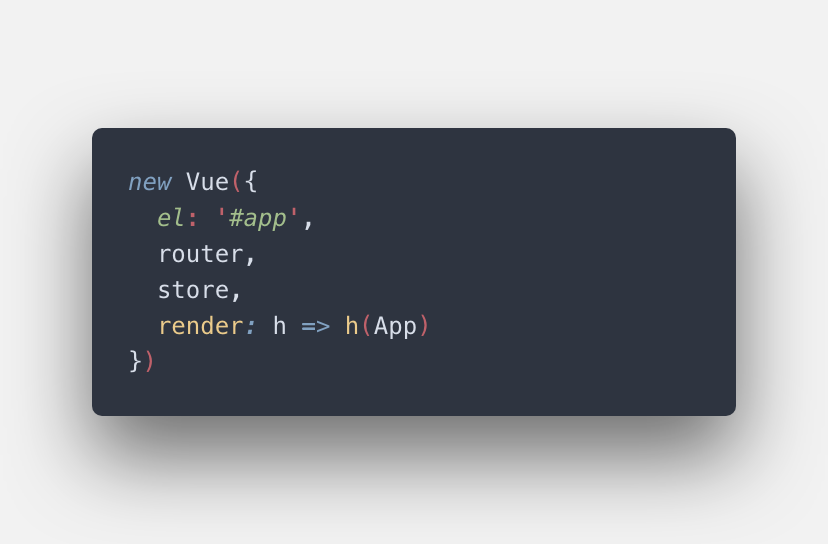
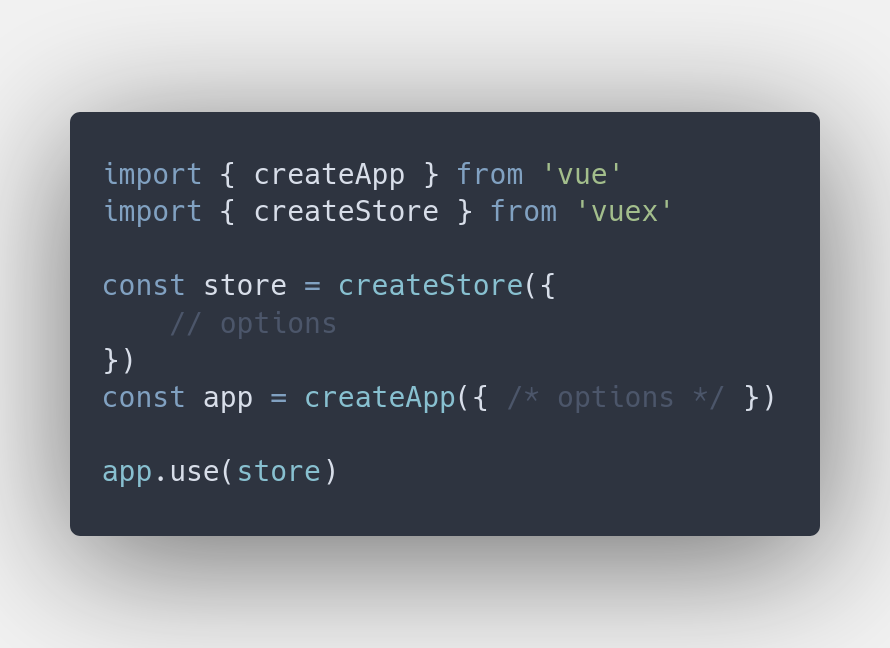
end of slides and images (fragments / teleport / composition)

diff --git a/docs/scripts/slides.js b/docs/scripts/slides.js
@@ -95,6 +95,22 @@ function iteratorSlides() {
   ];
 }
 
+function fragmentsSlides() {
+  return [
+    'fragments/transition_slide.md',
+    'fragments/single_node.md',
+    'fragments/multiple_nodes.md'
+  ]
+}
+
+function teleportSlides() {
+  return [
+    'teleport/transition_slide.md',
+    'teleport/principle.md',
+    'teleport/exercice.md',
+  ]
+}
+
 function communicationComponentSlides() {
   return [
     'communication-components/transition_slide.md',
@@ -160,6 +176,16 @@ function lazyLoadingSlides() {
   ]
 }
 
+function compositionApiSlides() {
+  return [
+    'composition-api/transition_slide.md',
+    'composition-api/problem.md',
+    'composition-api/basics.md',
+    'composition-api/reactivity_api.md',
+    'composition-api/separate_files.md',
+  ]
+}
+
 function formation() {
   return [
     ...schoolSlides(),
@@ -173,6 +199,8 @@ function formation() {
     ...serverCommunicationSlides(),
     ...navigationSlides(),
     ...iteratorSlides(),
+    ...fragmentsSlides(),
+    ...teleportSlides(),
     ...communicationComponentSlides(),
     ...formsSlides(),
     ...filterSlides(),
@@ -180,6 +208,7 @@ function formation() {
     ...directiveSlides(),
     ...stateManagementSlides(),
     ...lazyLoadingSlides(),
+    ...compositionApiSlides(),
   ].map(slidePath => {
     return { path: slidePath };
   });

diff --git a/docs/markdown/vue-instance/instance.md b/docs/markdown/vue-instance/instance.md
@@ -34,11 +34,14 @@ Le constructor peut prendre plusieurs options :
 ##--##
 <br><br><br>
 
-- Différentes méthodes de cycle de vie
+- Chaque instance de composant a un cycle de vie bien défini
     - created
     - mounted
-    - beforeCreated<br><br>
+    - updated
+    - unmounted
 - S'implémente directement dans les options de l'instance de vue
+
+Notes: diagramme https://v3.vuejs.org/guide/instance.html#lifecycle-diagram
 
 ##--##
 <br><br><br>
@@ -55,15 +58,14 @@ Le constructor peut prendre plusieurs options :
 <br><br><br>
 - Exposées dans l'objet data
 - Réactives
-- Propriétés d'instance: 
-    - $el
+- Propriétés d'instance :
     - $data
 
 ##--##
-![](assets/images/school/vue-instance/properties.png)
+![h-400](assets/images/school/vue-instance/properties.png)
 <!-- .element: class="align-image" -->
 
-![](assets/images/school/vue-instance/access_properties.png)
+![h-400](assets/images/school/vue-instance/access_properties.png)
 <!-- .element: class="align-image" -->
 
 ##==##
@@ -107,9 +109,10 @@ __Qu'est ce que c'est ?__
 - Exposées dans l'object "methods"
 - Utilisables dans le template
 - Méthodes d'instances
-    - render (creation v-node + createElement parameter)
-    - $on
+    - render (creation de template en javascript)
     - $emit
+    - $watch
+    - $forceUpdate / $nextTick
 
 ##--##
 <br><br>
@@ -129,9 +132,8 @@ __Qu'est ce que c'est ?__
 ##--##
 <br><br><br><br>
 
-- S'implémente sur l'instance / dans une méthode
+- S'implémente dans la définition du composant ou dans une méthode
 - Opérations Asynchrone
-- Privilégier une computed properties
 
 ##--##
 <br><br>
@@ -147,4 +149,4 @@ __Qu'est ce que c'est ?__
 
 - Une propriété computed est recalculée seulement quand ses dépendances changent<br><br>
 - Une méthode est rappelée à chaque fois qu'un élément change<br><br>
-- Un watcher est privilégié pour des actions plus complexes (asynchrone) => un call à une api
+- Un watcher est privilégié pour des actions plus complexes (effet de bord ou appel asynchrone)

diff --git a/docs/markdown/composition-api/reactivity_api.md b/docs/markdown/composition-api/reactivity_api.md
@@ -1,0 +1,33 @@
+# API de réactivité
+
+Permet de définir le comportement d'objets javascript "à la façon Vue"
+(peut être utilisé de façon indépendante d'un composant Vue)
+
+![center](assets/images/school/composition-api/reactivity-example-ref.png)
+
+##==##
+<!-- .slide: class="two-column-layout" -->
+# Computed
+
+On retrouve le même principe pour tous les éléments d'un composant
+##--##
+![mt-150](assets/images/school/composition-api/reactivity-example-computed.png)
+##--##
+
+![mt-150](assets/images/school/composition-api/reactivity-example-watch.png)
+
+##==##
+
+# Avec l'API de composition
+
+Le retour de la fonction **setup** ne doit pas contenir de type primitif non défini avec un `ref`
+
+![h-800 center](assets/images/school/composition-api/reactivity-example-all-in-one.png)
+
+##==##
+
+# Nouveau problème
+
+"Mais on n'a fait que déplacer le problème dans une grosse méthode setup"
+
+![h-500 center](assets/images/school/composition-api/absolutely.gif)

diff --git a/docs/markdown/state-management/store.md b/docs/markdown/state-management/store.md
@@ -5,10 +5,9 @@
 - "Magasin" comportant le state, getters, mutation, action
 - S'enregistre dans l'instance principale de Vue
 - Récupération dans le composant grâce à : <b>this.$store</b>
+- Peut être découpé en sous modules
 <br><br>
 
-![h-500](assets/images/school/state-management/people_module_store.png)
-![h-500](assets/images/school/state-management/register_people_module_store.png)
-![h-400](assets/images/school/state-management/register_store.png)
+![h-500](assets/images/school/state-management/register_store.png)
 
 

diff --git a/docs/markdown/teleport/principle.md b/docs/markdown/teleport/principle.md
@@ -1,0 +1,23 @@
+# Principe
+
+De façon standard, l'arbre des composants est le reflet du DOM
+
+![](assets/images/school/teleport/component-tree.png)
+
+Ce qui peut poser problème quand on veut des éléments "qui se baladent" (popup)
+
+##==##
+<!-- .slide: class="two-column-layout" -->
+# Solution
+
+##--##
+Solution pour "déplacer" un composant dans le DOM : le `teleport`
+
+Attention à ne pas en abuser ! (difficile à lire)
+
+##--##
+![](assets/images/school/teleport/teleport.png)
+
+
+
+

diff --git a/docs/markdown/fragments/single_node.md b/docs/markdown/fragments/single_node.md
@@ -1,0 +1,13 @@
+<!-- .slide: class="two-column-layout" -->
+# Composant à noeud unique
+
+Dans le cas d'un composant ne contenant qu'un seul nœud à la racine de son template, 
+c'est ce nœud qui va hériter des attributs "standards"
+
+##--##
+![h-500 mt-200](assets/images/school/fragments/single-node-definition.png)
+
+##--##
+![h-500 mt-200](assets/images/school/fragments/single-node-rendering.png)
+
+Notes: c'était obligatoirement comme ça en vuejs2 

diff --git a/docs/markdown/composition-api/basics.md b/docs/markdown/composition-api/basics.md
@@ -1,0 +1,16 @@
+<!-- .slide: class="two-column-layout" -->
+# Comment ?
+
+##--##
+- méthode d'instance nommée **setup**
+- appelée AVANT la création du composant (mais après la résolution des propriétés)
+
+_
+
+
+- prend en paramètre `props` et `context`
+- tout ce qu'elle retourne sera disponible dans le composant
+- ne pas utiliser **this** dans cette méthode
+
+##--##
+![](assets/images/school/composition-api/simple-setup.png)

diff --git a/docs/markdown/fragments/multiple_nodes.md b/docs/markdown/fragments/multiple_nodes.md
@@ -1,0 +1,12 @@
+<!-- .slide: class="two-column-layout" -->
+# Composant à noeuds multiples
+
+Quand il y a plusieurs nœuds, il faut spécifier manuellement où vont ces attributs standards
+
+##--##
+![h-500 mt-200](assets/images/school/fragments/multiple-nodes-definition.png)
+
+##--##
+![h-500 mt-200](assets/images/school/fragments/multiple-nodes-rendering.png)
+
+Notes: si non défini, Runtime warning

diff --git a/docs/markdown/composition-api/separate_files.md b/docs/markdown/composition-api/separate_files.md
@@ -1,0 +1,10 @@
+<!-- .slide: class="two-column-layout" -->
+# Des fichiers dédiés
+
+Ces éléments peuvent être utilisés de façon indépendante d'un composant Vue : on peut mettre la logique métier dans des fichiers séparés !
+
+##--##
+![mt-150](assets/images/school/composition-api/separate-files-1.png)
+##--##
+![mt-150](assets/images/school/composition-api/separate-files-2.png)
+

diff --git a/docs/markdown/composition-api/problem.md b/docs/markdown/composition-api/problem.md
@@ -1,0 +1,8 @@
+# Le mélange des responsabilités
+
+![h-900 center](assets/images/school/composition-api/functional-mix.png)
+
+##==##
+# Le but
+
+![h-900 center](assets/images/school/composition-api/separation-of-concerns.jpg)

diff --git a/docs/markdown/composition-api/transition_slide.md b/docs/markdown/composition-api/transition_slide.md
@@ -1,0 +1,3 @@
+<!-- .slide: class="transition underline" -->
+# L'API de composition
+

diff --git a/docs/markdown/fragments/transition_slide.md b/docs/markdown/fragments/transition_slide.md
@@ -1,0 +1,2 @@
+<!-- .slide: class="transition underline" -->
+# Les fragments
